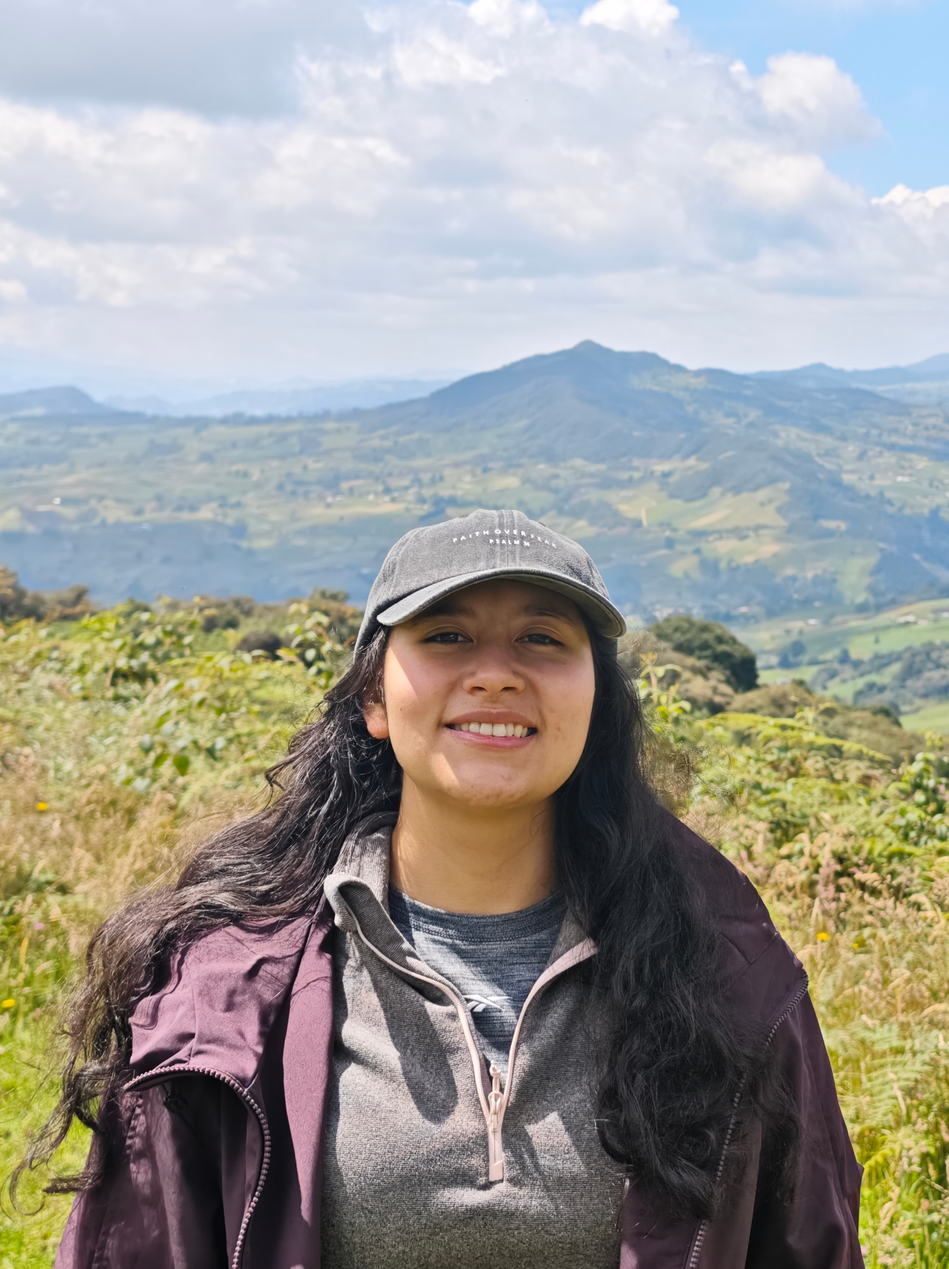
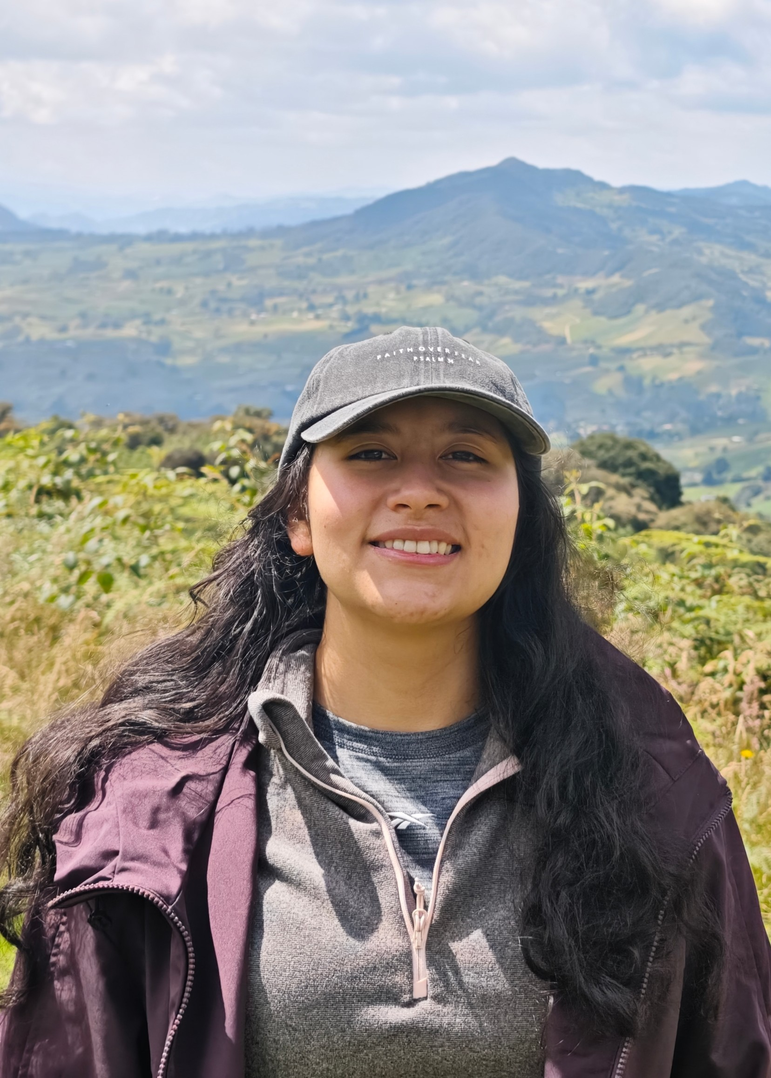
stack herramientas técnicas

diff --git a/index.html b/index.html
@@ -190,7 +190,7 @@
                                         <span class="toc-number">02</span>
                                     </span>
                                     <div>
-                                        <h3 class="toc-tittle">Habilidades y Tecnologías</h3>
+                                        <h3 class="toc-tittle">Stack de Herramientas</h3>
                                         <p class="toc-summary">Java, Spring Boot, JS, CSS, SQL, HTML, Git</p>
                                     </div>
                                 </div>
@@ -271,9 +271,10 @@
                                 <div class="carousel-slides">
                                     <img src="img/IMG_recort.jpg" alt="foto principal"
                                         class="profile-photo slide active">
-                                    <img src="img/IMG_1.jpg" alt="foto principal" class="profile-photo slide ">
-                                    <img src="img/IMG_2-.jpg" alt="foto principal" class="profile-photo slide ">
-                                    <img src="img/IMG-3.jpg" alt="foto principal" class="profile-photo slide ">
+                                    <img src="img/IMG_1.jpg" alt="foto piano" class="profile-photo slide ">
+                                    <img src="img/IMG_2-.jpg" alt="foto gofest" class="profile-photo slide ">
+                                    <img src="img/IMG_4.jpg" alt="foto monte" class="profile-photo slide" >
+                                    <img src="img/IMG-3.jpg" alt="foto edicion" class="profile-photo slide ">
                                     
                                 </div>
 
@@ -282,7 +283,7 @@
                                     <span class="dot" data-index="1"></span>
                                     <span class="dot" data-index="2"></span>
                                     <span class="dot" data-index="3"></span>
-                                    
+                                    <span class="dot" data-index="4"></span>
                                 </div>
                             </div>
                             <div class="me">
@@ -463,17 +464,59 @@
                         </div>
                     </div>
 
+                    <!-- HERRAMIENTAS -->
+                    <div class="book-panel" id="panel-skills">
+                        <div class="panel-header">
+                            <div>
+                                <span class="panel-subtitle">CAPÍTULO 02</span>
+                                <h2 class="panel-title">STACK DE HERRAMIENTAS</h2>
+                            </div>
+                            <span class="panel-filetag">Stack.json</span>
+                        </div>
+                        <div class="comic-box">
+                            <h4 class="h4-stack">Front-End</h4>
+                            <div class="tech-pill-container">
+                                <span class="tech-badge">HTML</span>
+                                <span class="tech-badge">CSS</span>
+                                <span class="tech-badge">JavaScript</span>
+                                <span class="tech-badge">React</span>
+                                <span class="tech-badge">Next.js</span>
+                            </div>
+                        </div>
+                        <div class="comic-box">
+                            <h4 class="h4-stack">Back-End</h4>
+                            <div class="tech-pill-container">
+                                <span class="tech-badge highlight">Java</span>
+                                <span class="tech-badge highlight">Python</span>
+                                <span class="tech-badge">Django</span>
+                                <span class="tech-badge">Azure Functions</span>
+                                <span class="tech-badge">REST API</span>
+                            </div>
+                        </div>
+                        <div class="comic-box">
+                            <h4 class="h4-stack">Datos & Cloud</h4>
+                            <div class="tech-pill-container">
+                                <span class="tech-badge highlight">Spring Boot</span>
+                                <span class="tech-badge highlight">PostgreSQL</span>
+                                <span class="tech-badge">Azure SQL</span>
+                                <span class="tech-badge">Git</span>
+                                <span class="tech-badge">GitHub</span>
+                            </div>
+                        </div>
+                    </div>
+                     
+
 
 
                 </div>
 
                 <footer class="spread-footer">
                     <button class="nav-btn" disabled="" id="btn-prev-page" type="button">
-                        ← <span>Anterior</span>
+                        <span class="arrow"> ← </span><span class="text">Anterior</span>
                     </button>
                     <div aria-label="Indicador de página" class="dots-list" id="dots-container"></div>
                     <button class="nav-btn primary" id="btn-next-page" type="button">
-                        <span>Siguiente</span> →
+                        <span class="text">Siguiente</span> <span class="arrow"> → </span> 
                     </button>
                 </footer>
             </section>

diff --git a/styles.css b/styles.css
@@ -550,21 +550,24 @@ body {
 }
 
 .btn-close-book {
-  display: inline-flex;
+  display: flex;
   align-items: center;
+  justify-content: center;
+  outline: none;
   gap: 6px;
   font-family: var(--font-display);
   font-size: 0.85rem;
   font-weight: 500;
   letter-spacing: 0.06rem;
   color: var(--color-blue-navy);
-  background: var(--color-blue-tint);
+  background-image: linear-gradient(var(--color-blue-tint));
   border: 1px solid var(--color-blue-soft);
   padding: 3px 10px;
   border-radius: 10px  0px  10px 0px ;
   cursor: pointer;
-  transition: all 0.2s ease;
+  transition: transform 0.15s ease, background-color 0.2s ease, box-shadow 0.2s ease;
 }
+
 
 .btn-close-book svg {
   display: block;
@@ -572,10 +575,25 @@ body {
 }
 
 .btn-close-book:hover {
-  background: var(--color-blue-navy);
-  color: var(--color-paper);
-  border-color: var(--color-blue-soft);
+  background-color: var(--color-blue-tint); 
+  color: var(--color-blue-navy); 
+  transform: translateY(1px);
+  box-shadow:
+    inset 0 1px 1px rgba(15, 23, 42, 0.18),   /* sombra superior interior (efecto hundido) */
+    inset 2px 0 2px rgba(2, 132, 199, 0.14),  /* sombra izquierda suave */
+    0 1px 0 var(--color-white);
 }
+
+.btn-close-book:active {
+ background-color: var(--color-blue-soft); 
+  transform: translateY(2px);
+  box-shadow:
+    inset 0 3px 7px rgba(15, 23, 42, 0.26),
+    inset 3px 0 6px rgba(3, 105, 161, 0.2),
+    0 0 0 var(--color-white);
+}
+
+
 
 .header-sep {
   width: 1px;
@@ -799,29 +817,33 @@ body {
   padding: 3px 10px;
   border-radius: 10px 0px 10px 0px;
   cursor: pointer;
-  border: 1px solid var(--color-blue-soft);
-  background: var(--color-blue-tint);
   color: var(--color-blue-navy);
-  transition: all 0.2s ease;
-}
-
-.nav-btn:hover:not(:disabled) {
-  background: var(--color-blue-navy);
-  color: var(--color-paper);
-  border-color: var(--color-blue-soft);
-}
-
-.nav-btn.primary:hover:not(:disabled) {
-  background: var(--color-blue-navy);
-  color: var(--color-paper);
-  border-color: var(--color-blue-soft);
+  border: 1px solid var(--color-blue-soft);
+  background-color: var(--color-blue-tint);
 }
 
 
-.nav-btn:disabled {
-  opacity: 0.35;
-  cursor: not-allowed;
+
+.nav-btn:hover .arrow {
+  animation: slide-in-left 0.6s cubic-bezier(0.250, 0.460, 0.450, 0.940) both;
 }
+
+@keyframes slide-in-left {
+  0% {
+    transform: translateX(-8px);
+    opacity: 0;
+  }
+
+  100% {
+    transform: translateX(0px);
+    opacity: 1;
+  }
+}
+
+.nav-btn:active {
+  transform: scale(0.97);
+}
+
 
 .dots-list {
   display: flex;
@@ -1146,6 +1168,7 @@ body {
   z-index: 0;
   pointer-events: none;
   overflow: visible;
+  
 }
 
 /* cara frontal */
@@ -1243,6 +1266,66 @@ body {
   background-color: var(--color-blue-navy);
 }
 
+/* STACK DE HERRAMIENTAS */
+.tech-pill-comtainer{
+  display: flex;
+  flex-wrap: wrap;
+  gap: 0.6rem;
+}
 
+.tech-badge {
+  position: relative;
+  display: inline-flex;
+  align-items: center;
+  gap: 1rem;
+  padding: 0.45rem 0.85rem;
+  border-radius: 10px;
+  background-color: var(--color-paper);
+  color: var(--color-slate-900);
+  border: 1.5px solid var(--color-slate-300);
+  font-size: 0.875rem;
+  font-weight: 500;
+  cursor: pointer;
+  transition: background-color 0.2s ease, border-color 0.2s ease, color 0.2s ease, transform 0.15s ease;;
+}
+
+.h4-stack{
+  font-family: var(--font-sans);
+  font-size: 0.78rem;
+  text-transform: uppercase;
+  color: var(--color-slate-900);
+  margin-bottom: 1rem;
+  margin-top: 2rem;
+  font-weight: 800;
+}
+
+/* circulo con chulo */
+.tech-badge::after {
+  content: "✓";
+  display: inline-flex;
+  align-items: center;
+  justify-content: center;
+  width: 18px;
+  height: 18px;
+  border-radius: 50%;
+  font-size: 0.7rem;
+  font-weight: 700;
+  color: transparent; /* Oculto hasta pasar el mouse */
+  background-color: transparent;
+  border: 1.5px solid var(--color-slate-400); /* #94a3b8 */
+  transition: background-color 0.22s ease, border-color 0.22s ease, color 0.22s ease, transform 0.2s ease;
+}
+.tech-badge:hover {
+  background-color: var(--color-blue-tint); 
+  border-color: var(--color-blue-primary); 
+  color: var(--color-blue-navy); 
+  transform: translateY(-1px);
+}
+.tech-badge:hover::after {
+  background-color: var(--color-blue-navy); 
+  border-color: var(--color-blue-navy);
+  color: var(--color-white); 
+  transform: scale(1.05);
+}
 
 /* 829 */

diff --git a/JS/book.js b/JS/book.js
@@ -2,9 +2,10 @@ const SPREADS = [
   { id: "toc", title: "TABLA DE CONTENIDOS" },
   { id: "about", title: "SOBRE MÍ" },
   { id: "skills", title: "MI CAJA DE HERRAMIENTAS" },
-  { id: "frontend", title: "PROYECTOS FRONTEND" },
-  { id: "backend1", title: "PROYECTOS BACKEND (01 & 02)" },
-  { id: "backend2", title: "PROYECTOS BACKEND (03 & 04)" },
+  { id: "frontend1", title: "PROYECTOS FRONTEND 1/2" },
+  { id: "frontend2", title: "PROYECTOS FRONTEND 2/2" },
+  { id: "backend1", title: "PROYECTOS BACKEND 1/2" },
+  { id: "backend2", title: "PROYECTOS BACKEND 2/2" },
   { id: "contact", title: "SIGAMOS CONSTRUYENDO" },
 ];
 

diff --git a/README.md b/README.md
@@ -9,6 +9,9 @@ Deploy: [Link del deployment ](https://gabriela-hm.github.io/Web-Portafolio/)
 
 # Sobremi
 
-2. completar infomacion
-3. ancho de texto
-4. frase footer
+1. cambiar metodología
+
+# Stack herramientas
+
+1. habilidades blandas
+2. que se marquen cuando el hover
